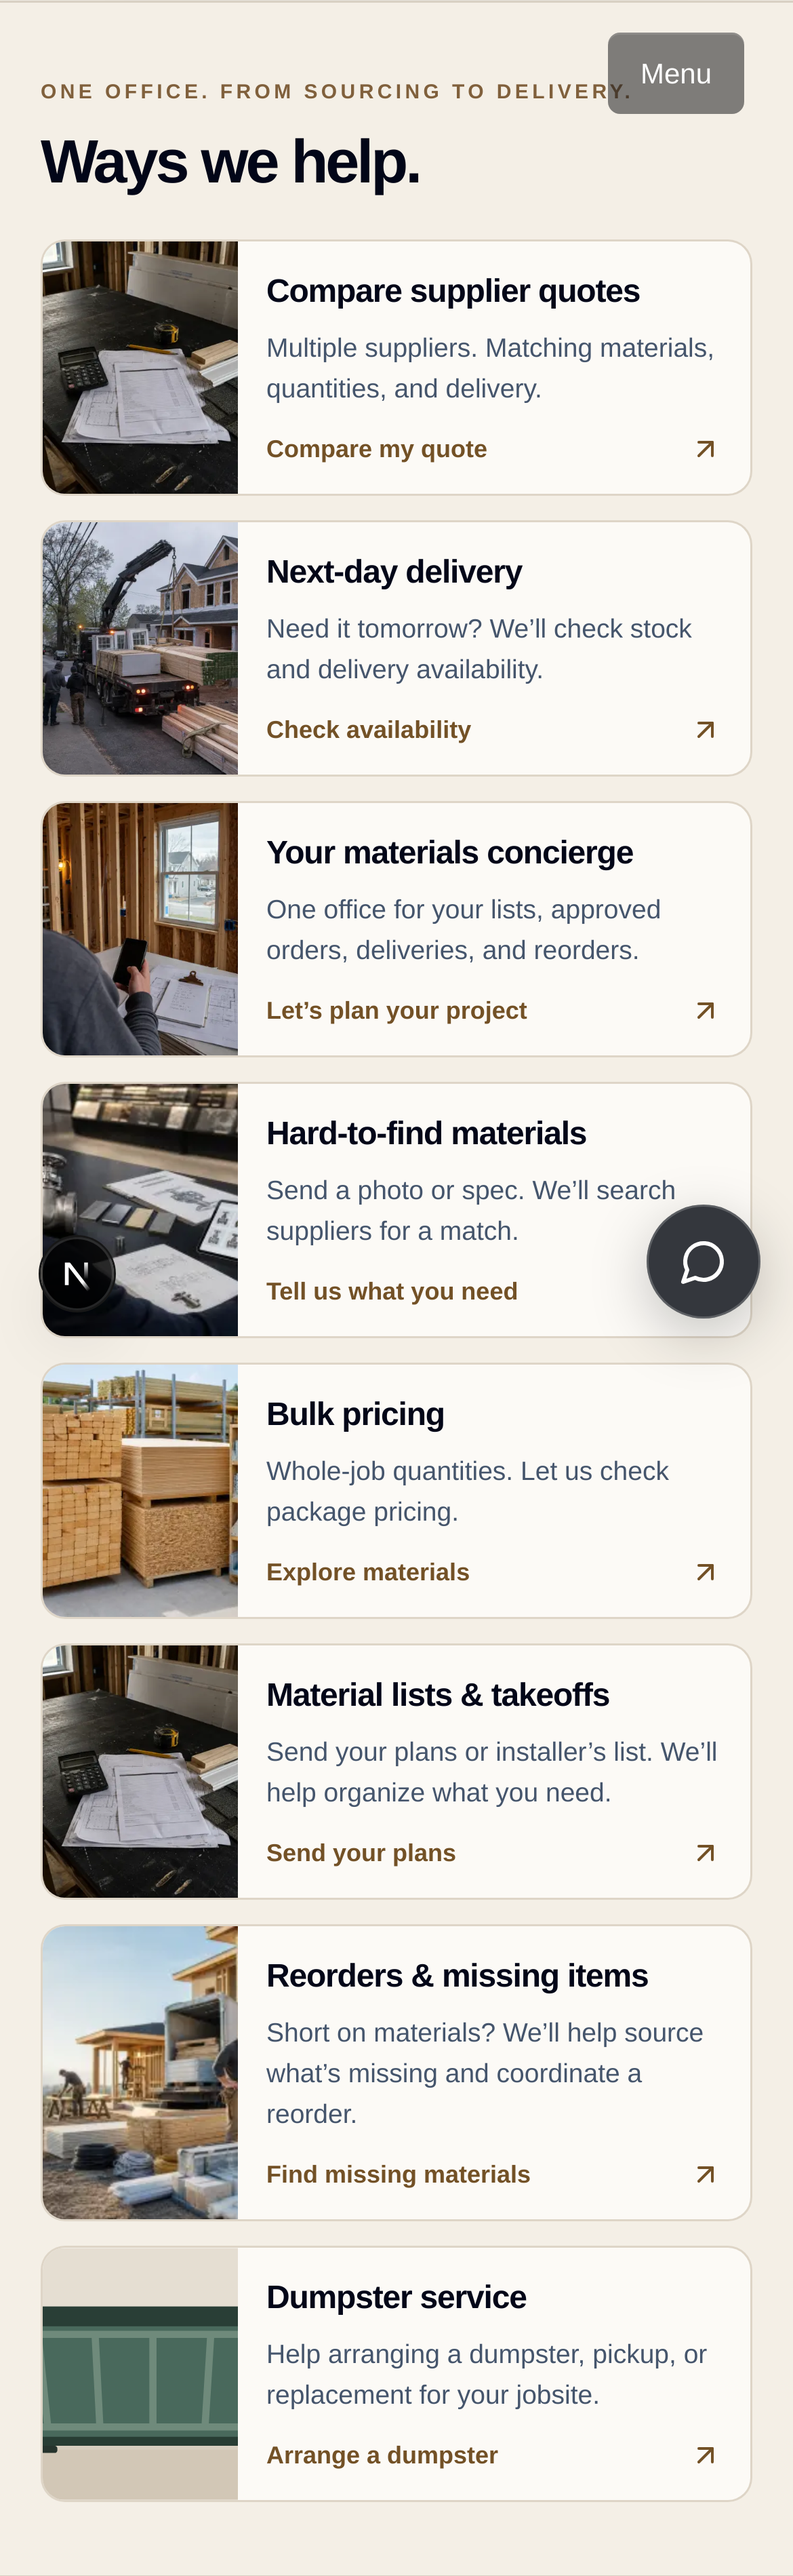
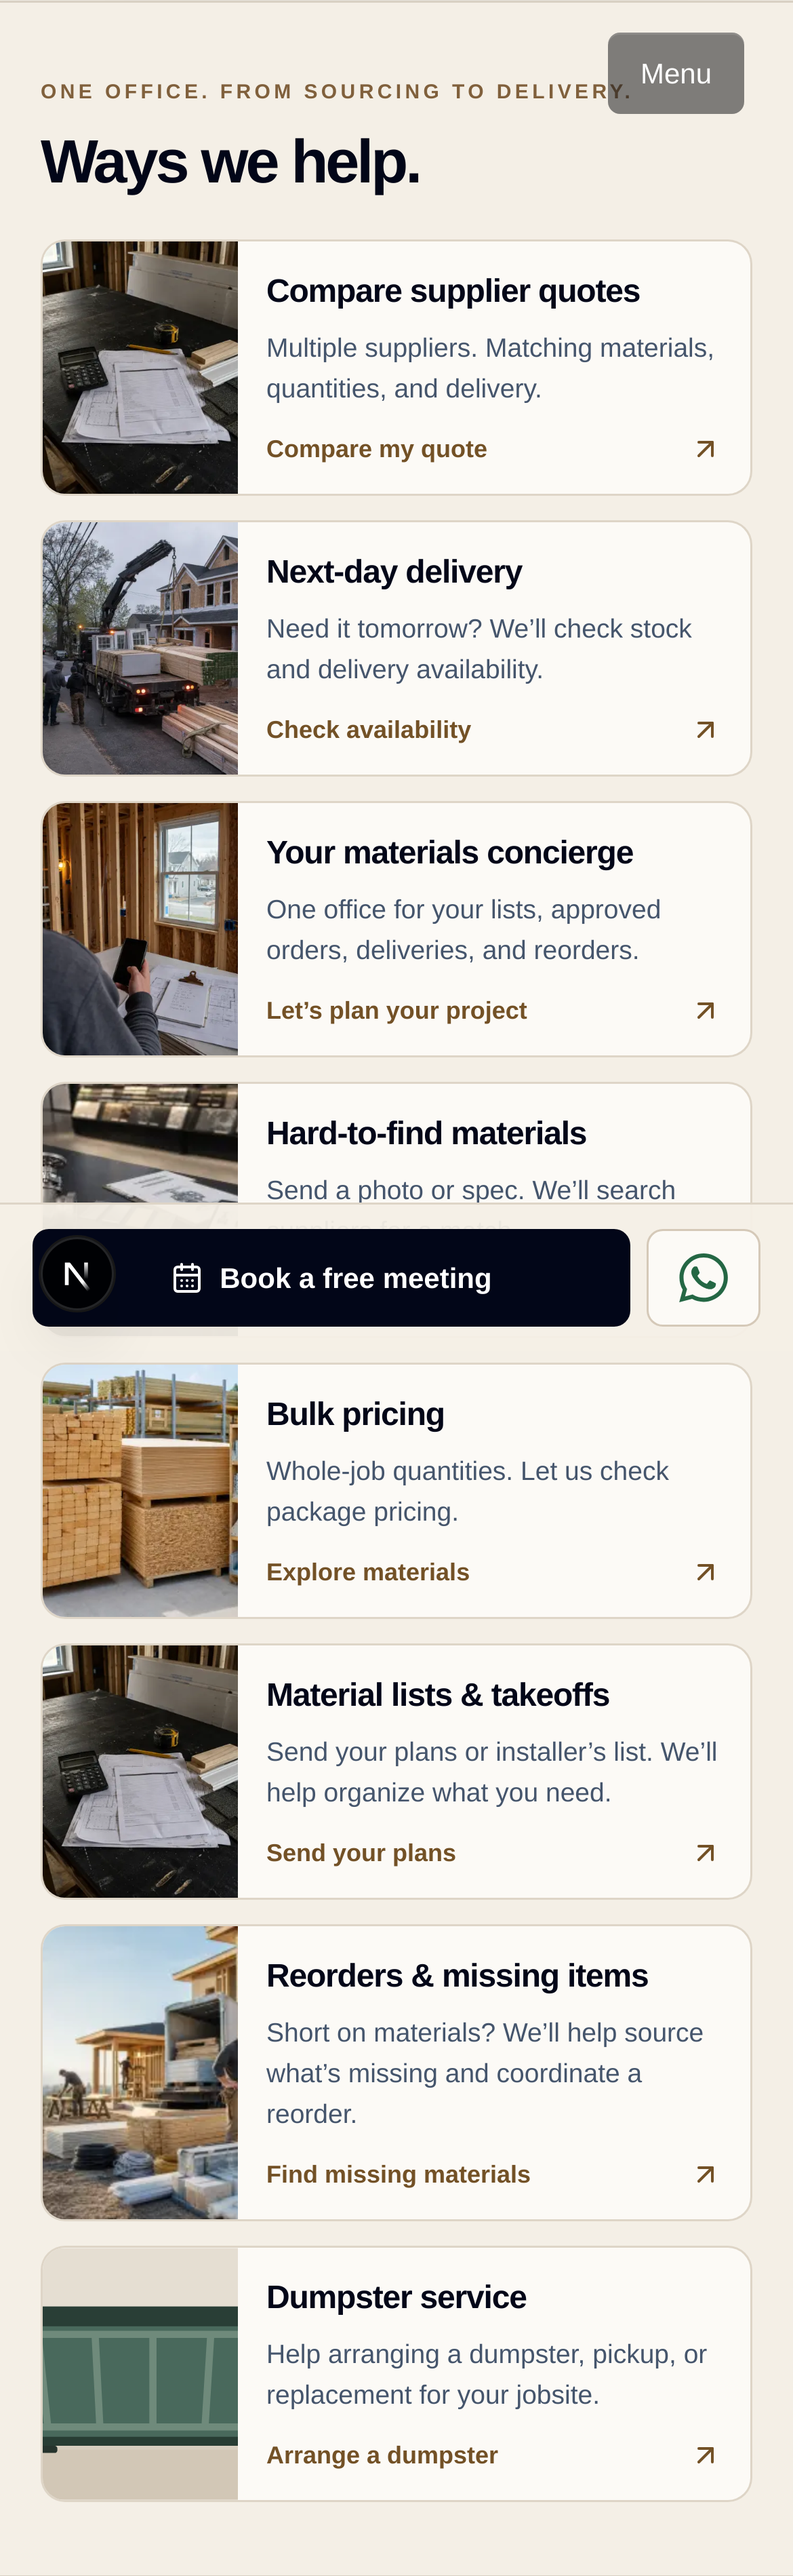
Clarify mobile hero photo and record authorized Vercel cleanup

Changed region(s): [[0.0308, 0.466, 0.9846, 0.5282]]

diff --git a/components/buildflow/homepage-concept-preview.tsx b/components/buildflow/homepage-concept-preview.tsx
@@ -276,7 +276,7 @@ export function HomepageConceptPreview({ initialConceptId = 1, reviewOnly = fals
       </div> : <video key={videoSource} ref={videoRef} src={videoSource} poster={posterSource} autoPlay muted playsInline preload="auto" onEnded={() => setVideoIndex((current) => (current + 1) % concept.videos.length)} className={`absolute object-cover ${conceptId === 2 ? "inset-y-0 right-0 h-full w-full sm:w-[62%]" : conceptId === 4 ? "inset-y-0 right-0 h-full w-full lg:w-[68%]" : conceptId === 5 ? "inset-x-4 bottom-5 top-24 h-[calc(100%-7.25rem)] w-[calc(100%-2rem)] rounded-[2rem] sm:inset-x-[38%] sm:w-[60%]" : "inset-0 h-full w-full scale-[1.015]"}`} aria-hidden="true" />}
 
       {conceptId === 1 ? <><div className="absolute inset-0 bg-[linear-gradient(180deg,rgba(0,0,0,.15),rgba(0,0,0,.08)_40%,rgba(0,0,0,.84))]" /><div className="relative z-10 mx-auto flex min-h-[100svh] max-w-7xl flex-col justify-end px-5 pb-24 pt-24 sm:px-8 lg:px-12"><div className="max-w-3xl drop-shadow-[0_5px_28px_rgba(0,0,0,.65)]">{text}<Actions primary={concept.primary} secondary={concept.secondary} /><p className="mt-3 text-xs font-semibold text-white/65">No account. No obligation.</p></div></div></> : null}
-      {conceptId === 2 ? <><div className="absolute inset-0 bg-[linear-gradient(90deg,#f4efe6_0%,rgba(244,239,230,.97)_40%,rgba(244,239,230,.86)_100%)] sm:bg-[linear-gradient(90deg,#f4efe6_0%,#f4efe6_44%,rgba(244,239,230,.97)_54%,rgba(244,239,230,.68)_67%,rgba(244,239,230,.18)_82%,rgba(244,239,230,.06)_100%)]" /><div className="relative z-10 flex min-h-[100svh] items-center px-5 pt-16 text-slate-950 sm:w-[54%] sm:px-10 lg:px-16"><div className="max-w-2xl">{text}<Actions primary={concept.primary} secondary={concept.secondary} dark compact={reviewOnly} /></div></div></> : null}
+      {conceptId === 2 ? <><div className="absolute inset-0 bg-[linear-gradient(180deg,rgba(244,239,230,.04)_0%,rgba(244,239,230,.12)_20%,rgba(244,239,230,.94)_38%,#f4efe6_56%)] sm:bg-[linear-gradient(90deg,#f4efe6_0%,#f4efe6_44%,rgba(244,239,230,.97)_54%,rgba(244,239,230,.68)_67%,rgba(244,239,230,.18)_82%,rgba(244,239,230,.06)_100%)]" /><div className="relative z-10 flex min-h-[100svh] items-end px-5 pb-20 pt-[36svh] text-slate-950 sm:items-center sm:pb-0 sm:pt-16 sm:w-[54%] sm:px-10 lg:px-16"><div className="max-w-2xl">{text}<Actions primary={concept.primary} secondary={concept.secondary} dark compact={reviewOnly} /></div></div></> : null}
       {conceptId === 3 ? <><div className="absolute inset-0 bg-black/45" /><div className="absolute inset-x-0 top-[18%] h-3 bg-amber-400" /><div className="relative z-10 flex min-h-[100svh] flex-col items-center justify-center px-5 pt-20 text-center"><div className="max-w-5xl">{text}<div className="flex justify-center"><Actions primary={concept.primary} secondary={concept.secondary} /></div><p className="mt-4 font-mono text-xs uppercase tracking-[.15em] text-amber-300">Fast request intake · Human review</p></div></div></> : null}
       {conceptId === 4 ? <><div className="absolute inset-0 bg-[linear-gradient(90deg,#061d3b_0%,#061d3b_42%,rgba(6,29,59,.78)_66%,rgba(6,29,59,.18))]" /><div className="absolute inset-0 opacity-20 [background-image:linear-gradient(rgba(78,170,255,.3)_1px,transparent_1px),linear-gradient(90deg,rgba(78,170,255,.3)_1px,transparent_1px)] [background-size:32px_32px]" /><div className="relative z-10 flex min-h-[100svh] items-center px-5 pt-16 sm:px-10 lg:w-1/2 lg:px-16"><div className="max-w-2xl border-l-4 border-sky-400 pl-5 sm:pl-8">{text}<Actions primary={concept.primary} secondary={concept.secondary} /><div className="mt-5 grid max-w-md grid-cols-3 gap-2 text-center text-[10px] font-bold uppercase tracking-wide text-sky-200"><span className="border border-sky-300/25 p-2">Request</span><span className="border border-sky-300/25 p-2">Compare</span><span className="border border-sky-300/25 p-2">Deliver</span></div></div></div></> : null}
       {conceptId === 5 ? <><div className="absolute inset-0 bg-gradient-to-r from-[#edf2f7] via-[#edf2f7] to-transparent sm:w-[58%]" /><div className="relative z-10 flex min-h-[100svh] items-end px-5 pb-20 pt-24 sm:w-[50%] sm:items-center sm:px-10 lg:px-16"><div className="max-w-xl rounded-3xl bg-white/92 p-6 shadow-[0_25px_80px_rgba(15,23,42,.18)] backdrop-blur-xl sm:p-9">{text}<Actions primary={concept.primary} secondary={concept.secondary} dark /><p className="mt-4 text-xs font-bold text-slate-600">Local jobs · Real supplier follow-up</p></div></div></> : null}

diff --git a/docs/vercel-cleanup-20261029/REPORT.md b/docs/vercel-cleanup-20261029/REPORT.md
@@ -1,0 +1,11 @@
+# Vercel cleanup — October 29, 2026
+User authorized cleanup and CPU review. Sole operator Codex, no deployment.
+
+Verified project prj_9YPQLnJQT8ud6NHQOCkGYBYZQTjE, team team_ppEl8INgejzz6LoMr6UhXnfs. Production target dpl_9CHu3dzbnJGNFCEJY6cFjRdegUHb. Inventory 61 records: seven READY production, three READY preview, remaining blocked.
+
+Removed two old branch previews after verifying non-production targets, project ownership, and branch-only vercel.app aliases; no matching active local worktrees or focus ownership found:
+- dpl_CGMdaRhrgtjzkXFDWc295NHRmAtB — codex/qualifying-questions-preview
+- dpl_89eLb2N2gqDQsJXB8umnU7wC9F8M — haim/client-projects-wireframe
+Both DELETE responses200; subsequent list59, all seven READY production retained. Named avantia-build-home-preview.vercel.app retained. Live /api/release still f6e3a28801ee139b6f4caea1db877e0c1241c3e5. No storage savings claimed; usage metric unavailable.
+
+CPU audit: Vercel Optimize collector with explicit project/org and authenticated CLI. Observability Plus unavailable (no_oplus_probe). No route metrics; usage/contract null. User asked to choose limited code-only audit vs enabling Observability Plus; pending. No paid feature/config changes, speculative CPU fixes, customer sends, or database writes.

diff --git a/docs/services-preview-20261029/HANDOFF.md b/docs/services-preview-20261029/HANDOFF.md
@@ -11,3 +11,6 @@ User approved compact styling and requested three additional services in two row
 
 ## Mobile booking bar preview
 Added mobile-only bottom booking/WhatsApp bar after hero CTA scrolls above viewport. Restores normal contact launcher when returning to hero; hides duplicate launcher while bar visible. Safe-area padding, accessible labels, 48px targets. Desktop unchanged. Browser verified appearance/disappearance, links, hidden duplicate, desktop exclusion; ESLint/diff check passed. Screenshot mobile-booking-bar.png. No publishing or messages.
+
+## Phone hero clarification
+User meant top hero photo, not service cards. Changed only mobile cream overlay to vertical transition with visible photo at top, cream beneath copy; mobile content lower with responsive padding. Desktop overlay/layout preserved. Hero phone screenshot visually reviewed, no horizontal overflow; targeted lint passed. Video removal not performed (earlier was a recommendation, clarification focused on photo). Preview only.
